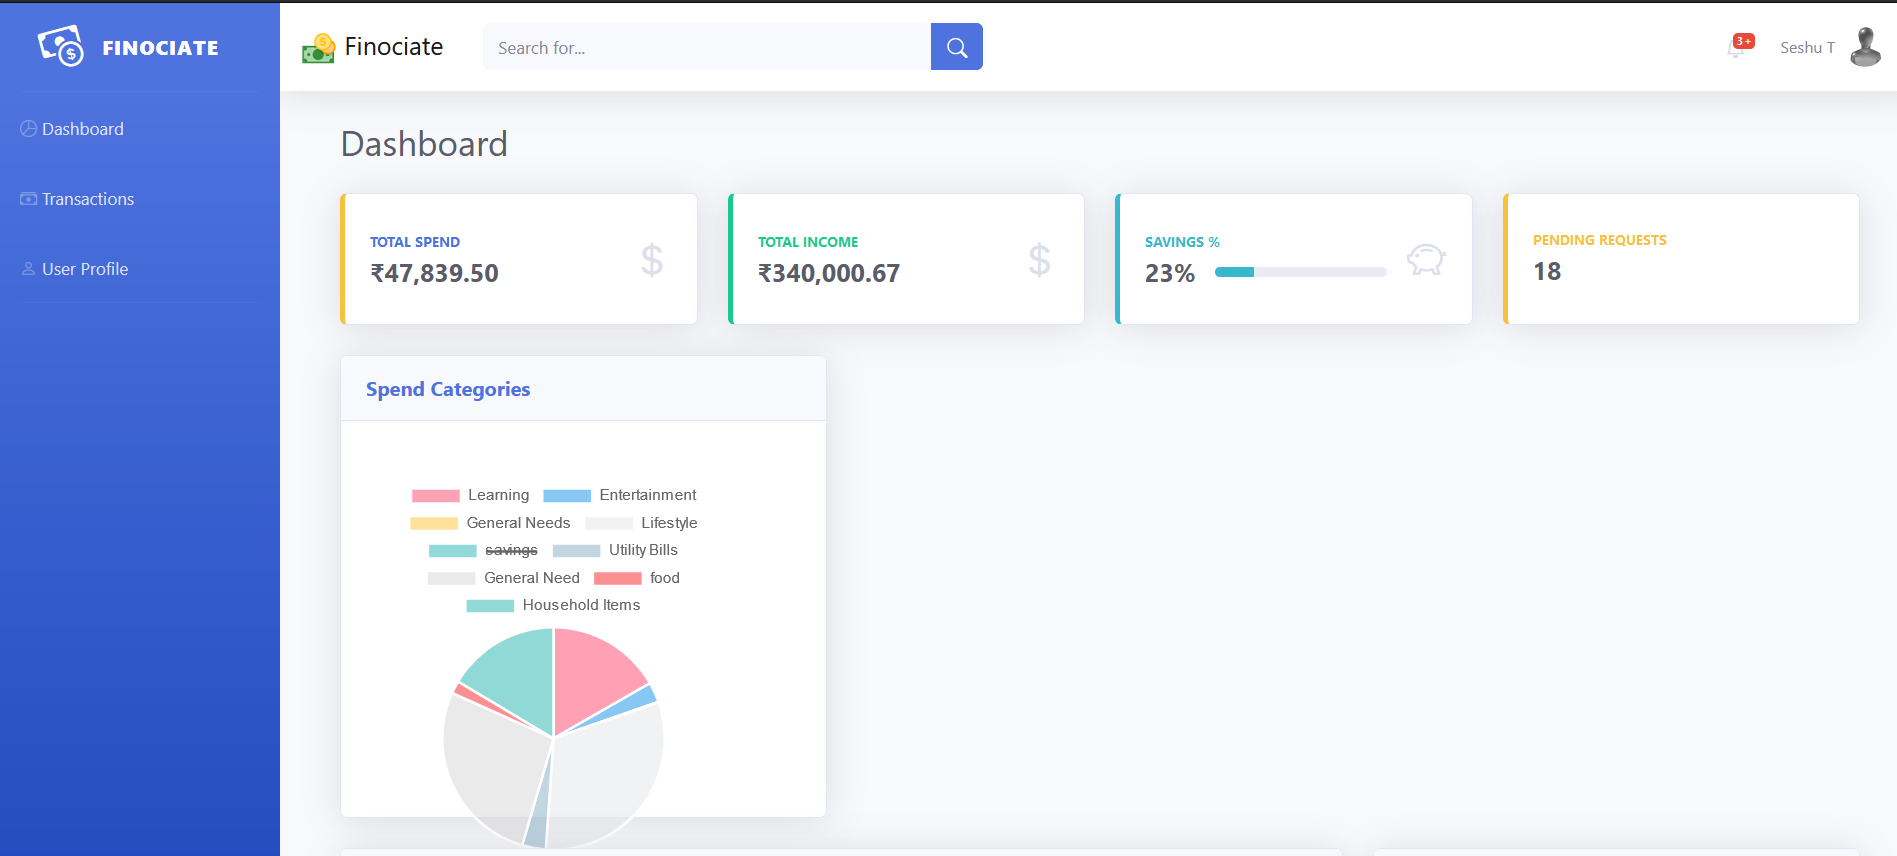
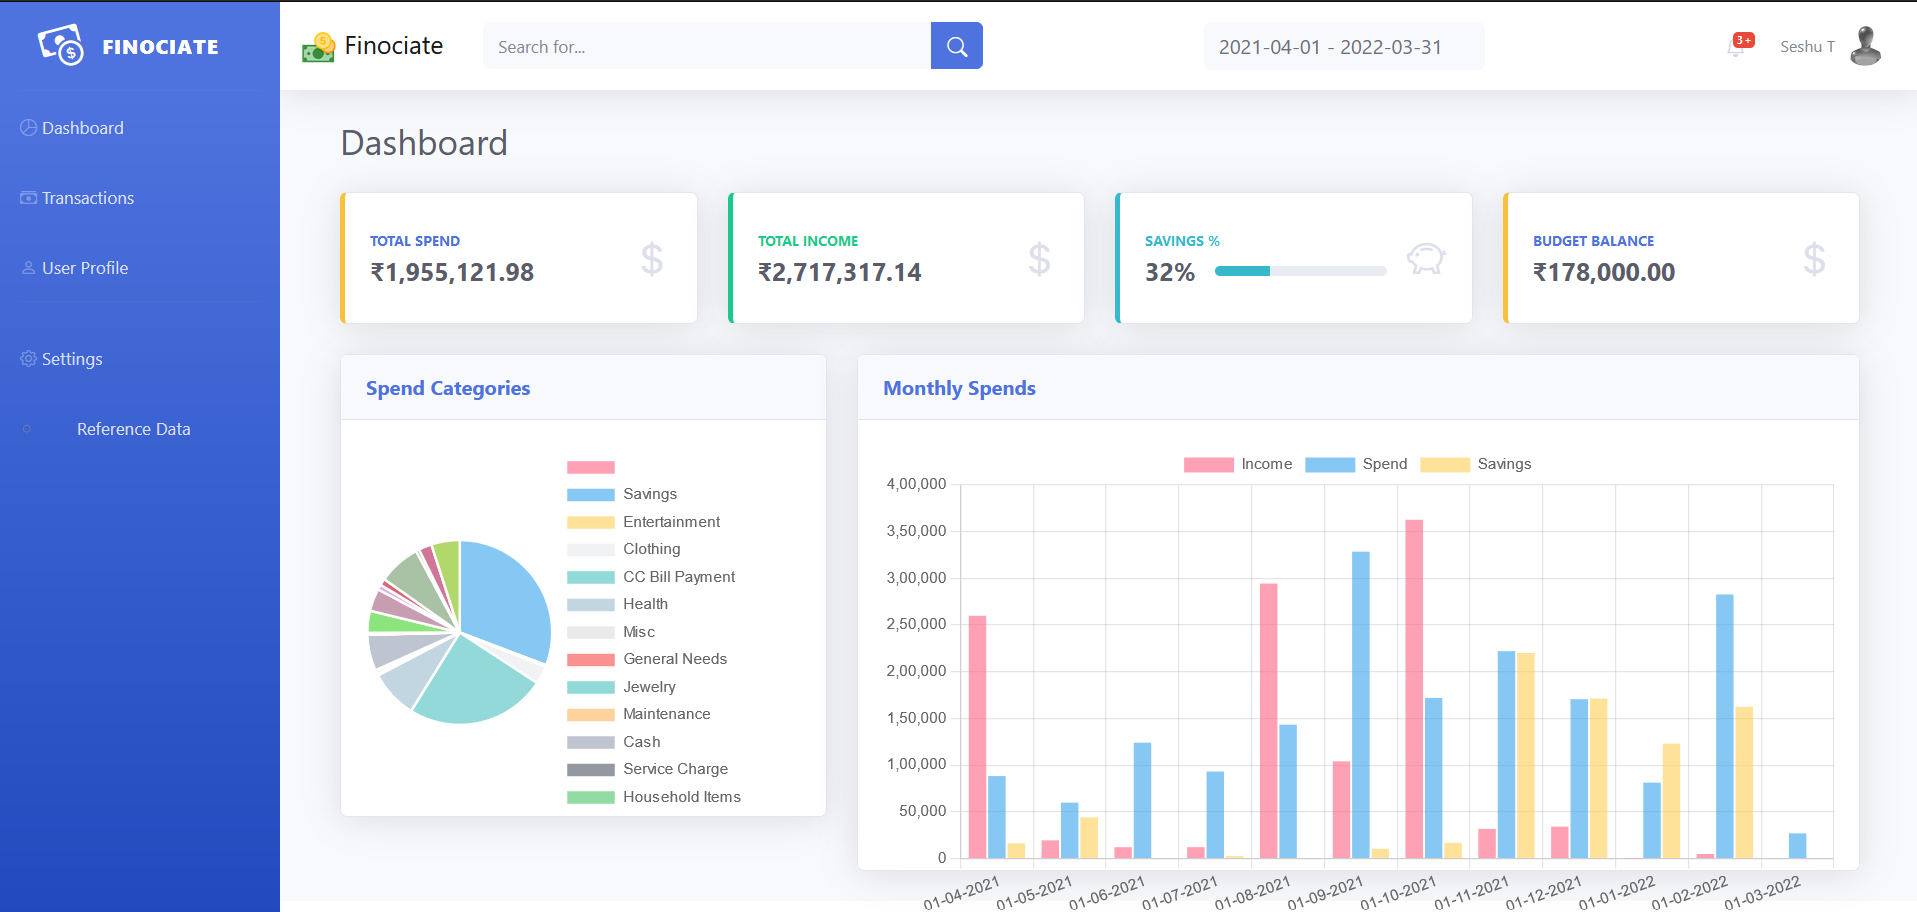
Monthly View Chart Added

diff --git a/finociate-ui/src/app/pages/monthly-view-chart/monthly-view-chart.component.ts b/finociate-ui/src/app/pages/monthly-view-chart/monthly-view-chart.component.ts
@@ -1,5 +1,10 @@
 import { Component, OnInit } from '@angular/core';
 import { ChartConfiguration } from 'chart.js';
+import { DateRangeService } from 'src/app/services/date-range.service';
+import { TransactionService } from 'src/app/services/transaction.service';
+import { CommonUtil } from 'src/app/shared/common-util';
+import { FilterParams } from 'src/app/shared/model/filter-params';
+import { TransactionSummaryList } from 'src/app/shared/model/transaction-summary-list';
 
 @Component({
   selector: 'app-monthly-view-chart',
@@ -11,20 +16,54 @@ export class MonthlyViewChartComponent implements OnInit {
   public barChartPlugins = [];
 
   public barChartData: ChartConfiguration<'bar'>['data'] = {
-    labels: [ '2006', '2007', '2008', '2009', '2010', '2011', '2012' ],
-    datasets: [
-      { data: [ 65, 59, 80, 81, 56, 55, 40 ], label: 'Series A' },
-      { data: [ 28, 48, 40, 19, 86, 27, 90 ], label: 'Series B' }
-    ]
+    datasets: []
   };
 
   public barChartOptions: ChartConfiguration<'bar'>['options'] = {
-    responsive: false,
+    responsive: true,
   };
 
-  constructor() { }
+  filterParams: FilterParams = {
+    fromDate: '',
+    toDate: ''
+  };
+
+  constructor(private transactionService: TransactionService, private dateRangeService: DateRangeService) { }
 
   ngOnInit(): void {
+    this.dateRangeService.dateRange().subscribe(value => {
+      this.filterParams.fromDate = CommonUtil.getDateString(value.startDate);
+      this.filterParams.toDate = CommonUtil.getDateString(value.endDate);
+      this.loadMonthlyData();
+    })
   }
 
+  loadMonthlyData() {
+    return this.transactionService.getMonthlyTransactionSummary(this.filterParams).subscribe((data: TransactionSummaryList) => {
+      if (data) {
+        console.log("Monthly Summary", data);
+        let labels: any[] = [];
+
+        let income: number[] = [];
+        let spend: number[] = [];
+        let savings: number[] = [];
+        data.list.forEach((summary) => {
+          labels.push(summary.date);
+          income.push(summary.totalIncome);
+          spend.push(summary.totalSpend);
+          savings.push(summary.totalSavings);
+        });
+        let datasets = [
+          { data: income, label: 'Income' },
+          { data: spend, label: 'Spend' },
+          { data: savings, label: 'Savings' }
+        ];
+        let barChartData: ChartConfiguration<'bar'>['data'] = {
+          labels: labels,
+          datasets: datasets
+        }
+        this.barChartData = barChartData;
+      }
+    });
+  }
 }

diff --git a/finociate-ui/src/app/services/transaction.service.ts b/finociate-ui/src/app/services/transaction.service.ts
@@ -1,14 +1,15 @@
 import { Injectable } from '@angular/core';
 import { HttpClient, HttpHeaders } from '@angular/common/http';
-import { Observable, throwError } from 'rxjs';
+import { EMPTY, Observable, throwError } from 'rxjs';
 import { retry, catchError } from 'rxjs/operators';
 import { Transaction } from '../shared/model/transaction';
 import { TransactionList } from '../shared/model/transaction-list';
 import { FilterParams } from '../shared/model/filter-params';
 import { TransactionSummary } from '../shared/model/transaction-summary';
-import { AmountsData } from '../shared/model/transaction-summary copy';
+import { AmountsData } from '../shared/model/amounts-data';
 import { Globals } from '../shared/global';
 import { ServiceHelper } from './helper';
+import { TransactionSummaryList } from '../shared/model/transaction-summary-list';
 
 @Injectable({
   providedIn: 'root'
@@ -38,12 +39,22 @@ export class TransactionService {
       .pipe(retry(1), catchError(ServiceHelper.handleError));
   }
 
-  // HttpClient API get() method => Fetch transactions summary
+  // HttpClient API get() method => Fetch category summary
   getSpendCategoryData(filterParams: FilterParams): Observable<AmountsData> {
     return this.http
       .get<AmountsData>(this.apiURL + '/summary/categories?' + this.getFilterString(filterParams))
       .pipe(retry(1), catchError(ServiceHelper.handleError));
   }
+
+    // HttpClient API get() method => Fetch monthly transactions summary
+    getMonthlyTransactionSummary(filterParams: FilterParams): Observable<TransactionSummaryList> {
+      if (filterParams.fromDate == '' || filterParams.toDate == '') {
+        return EMPTY;
+      }
+      return this.http
+        .get<TransactionSummaryList>(this.apiURL + '/summary/monthly?' + this.getFilterString(filterParams))
+        .pipe(retry(1), catchError(ServiceHelper.handleError));
+    }
 
   // HttpClient API get() method => Fetch transaction
   getTransaction(id: any): Observable<Transaction> {

diff --git a/finociate-ui/src/app/pages/dashboard/dashboard.component.html b/finociate-ui/src/app/pages/dashboard/dashboard.component.html
@@ -80,12 +80,12 @@
                 <div class="card-body">
                     <div class="row no-gutters align-items-center">
                         <div class="col mr-2">
-                            <div class="text-xs font-weight-bold text-warning text-uppercase mb-1">
-                                Pending Requests</div>
-                            <div class="h5 mb-0 font-weight-bold text-gray-800">18</div>
+                            <div class="text-xs font-weight-bold text-primary text-uppercase mb-1">
+                                Budget Balance</div>
+                            <div class="h5 mb-0 font-weight-bold text-gray-800">{{budget.balance | currency:currencyCode}}</div>
                         </div>
                         <div class="col-auto">
-                            <i class="fas fa-comments fa-2x text-gray-300"></i>
+                            <i class="bi bi-currency-dollar text-gray-300 size-2x"></i>
                         </div>
                     </div>
                 </div>

diff --git a/finociate-ui/src/app/services/date-range.service.ts b/finociate-ui/src/app/services/date-range.service.ts
@@ -1,15 +1,17 @@
 import { Injectable } from '@angular/core';
 import dayjs from 'dayjs';
-import { BehaviorSubject } from 'rxjs';
+import { BehaviorSubject, Subject } from 'rxjs';
 import { CommonUtil } from '../shared/common-util';
 
 @Injectable({
   providedIn: 'root'
 })
 export class DateRangeService {
-  private dateRangeSubject = new BehaviorSubject({startDate: CommonUtil.getFY(0)?.startOf('month'), endDate: dayjs()});
+  private dateRangeSubject: Subject<any>; 
 
-  constructor() { }
+  constructor() { 
+    this.dateRangeSubject = new BehaviorSubject({startDate: CommonUtil.getFY(0)?.startOf('month'), endDate: dayjs()}); 
+  }
 
   dateRange() {
     return this.dateRangeSubject.asObservable();

diff --git a/finociate-ui/src/app/pages/spend-category-chart/spend-category-chart.component.ts b/finociate-ui/src/app/pages/spend-category-chart/spend-category-chart.component.ts
@@ -4,7 +4,7 @@ import { DateRangeService } from 'src/app/services/date-range.service';
 import { TransactionService } from 'src/app/services/transaction.service';
 import { CommonUtil } from 'src/app/shared/common-util';
 import { FilterParams } from 'src/app/shared/model/filter-params';
-import { AmountsData } from 'src/app/shared/model/transaction-summary copy';
+import { AmountsData } from 'src/app/shared/model/amounts-data';
 
 @Component({
   selector: 'app-spend-category-chart',

diff --git a/finociate-ui/src/app/pages/monthly-view-chart/monthly-view-chart.component.html b/finociate-ui/src/app/pages/monthly-view-chart/monthly-view-chart.component.html
@@ -1,7 +1,5 @@
-<canvas baseChart
-        [data]="barChartData"
-        [options]="barChartOptions"
-        [plugins]="barChartPlugins"
-        [legend]="barChartLegend"
-        [type]="'bar'">
-</canvas>
+<div class="wrapper">
+        <canvas baseChart [data]="barChartData" [options]="barChartOptions" [plugins]="barChartPlugins"
+                [legend]="barChartLegend" [type]="'bar'">
+        </canvas>
+</div>

diff --git a/finociate-ui/src/app/pages/dashboard/dashboard.component.ts b/finociate-ui/src/app/pages/dashboard/dashboard.component.ts
@@ -12,10 +12,14 @@ import { TransactionSummary } from 'src/app/shared/model/transaction-summary';
 })
 export class DashboardComponent implements OnInit {
   summary: TransactionSummary = {
+    date: '',
     totalIncome: 0,
     totalSpend: 0,
     totalSavings: 0,
     savingsPercent: 0
+  };
+  budget = {
+    balance: 178000
   };
   filterParams: FilterParams = {
     fromDate: '',

diff --git a/finociate-ui/src/app/shared/model/transaction-summary-list.ts b/finociate-ui/src/app/shared/model/transaction-summary-list.ts
@@ -1,0 +1,5 @@
+import { TransactionSummary } from "./transaction-summary";
+
+export interface TransactionSummaryList {
+    list: TransactionSummary[];
+}

diff --git a/finociate-ui/src/app/shared/model/transaction-summary.ts b/finociate-ui/src/app/shared/model/transaction-summary.ts
@@ -1,4 +1,5 @@
 export interface TransactionSummary {
+    date: string;
     totalIncome: number,
     totalSpend: number,
     totalSavings: number,

diff --git a/backend/src/main/java/com/seshutechie/finociate/service/TransactionService.java b/backend/src/main/java/com/seshutechie/finociate/service/TransactionService.java
@@ -1,6 +1,7 @@
 package com.seshutechie.finociate.service;
 
 import com.seshutechie.finociate.common.AppConstants;
+import com.seshutechie.finociate.common.util.DateUtil;
 import com.seshutechie.finociate.exception.TransactionNotFoundException;
 import com.seshutechie.finociate.model.*;
 import com.seshutechie.finociate.repository.TransactionRepo;
@@ -9,6 +10,8 @@ import org.slf4j.LoggerFactory;
 import org.springframework.beans.factory.annotation.Autowired;
 import org.springframework.stereotype.Service;
 
+import java.time.LocalDate;
+import java.util.ArrayList;
 import java.util.List;
 import java.util.Map;
 import java.util.NoSuchElementException;
@@ -93,7 +96,10 @@ public class TransactionService {
                 transactionSummary.setTotalIncome(totalCredit);
                 transactionSummary.setTotalSpend(totalDebit - totalSavings);
                 transactionSummary.setTotalSavings(totalSavings);
-                transactionSummary.setSavingsPercent(totalSavings / totalCredit);
+                transactionSummary.setSavingsPercent(totalCredit > 0 ? totalSavings / totalCredit : 0);
+                if (filters != null) {
+                    transactionSummary.setDate(DateUtil.getStartOfMonth(filters.getFromDate()));
+                }
             }
         }
         return transactionSummary;
@@ -112,5 +118,27 @@ public class TransactionService {
             }
         }
         return amountsData;
+    }
+
+    public TransactionSummaryList getMonthlySummary(FilterParameters filterOptions) {
+        if (filterOptions == null || filterOptions.getFromDate() == null || filterOptions.getToDate() == null) {
+            throw new IllegalArgumentException("From and To dates are required");
+        }
+        List<TransactionSummary> list = new ArrayList<>();
+        TransactionSummaryList transactionSummaryList = new TransactionSummaryList(list);
+
+        FilterParameters filterParameters = new FilterParameters();
+        LocalDate startDate = DateUtil.getLocalDate(filterOptions.getFromDate());
+        LocalDate endDate = DateUtil.getLocalDate(filterOptions.getToDate());
+        LocalDate currentStartDate = startDate;
+        while (currentStartDate.isBefore(endDate)) {
+            currentStartDate = DateUtil.getStartOfMonth(currentStartDate);
+            filterParameters.setFromDate(DateUtil.getDate(currentStartDate));
+            filterParameters.setToDate(DateUtil.getDate(DateUtil.getEndOfMonth(currentStartDate)));
+            TransactionSummary transactionsSummary = getTransactionsSummary(filterParameters);
+            list.add(transactionsSummary);
+            currentStartDate = currentStartDate.plusMonths(1);
+        }
+        return transactionSummaryList;
     }
 }

diff --git a/backend/src/main/java/com/seshutechie/finociate/common/util/DateUtil.java b/backend/src/main/java/com/seshutechie/finociate/common/util/DateUtil.java
@@ -1,0 +1,67 @@
+package com.seshutechie.finociate.common.util;
+
+import java.text.SimpleDateFormat;
+import java.time.LocalDate;
+import java.time.ZoneId;
+import java.util.Date;
+import java.util.TimeZone;
+
+public class DateUtil {
+    public static final String ZONE_UTC = "UTC";
+    public static final ZoneId ZONE_ID_UTC = ZoneId.of(ZONE_UTC);
+
+    public static final Date getStartOfMonth(Date date) {
+        Date startOfMonth = null;
+        if (date != null) {
+            LocalDate localDate = getLocalDate(date);
+            startOfMonth = getDate(getStartOfMonth(localDate));
+        }
+        return startOfMonth;
+    }
+
+    public static final Date getEndOfMonth(Date date) {
+        Date endOfMonth = null;
+        if (date != null) {
+            LocalDate localDate = getLocalDate(date);
+            endOfMonth = getDate(getEndOfMonth(localDate));
+        }
+        return endOfMonth;
+    }
+
+    public static final Date[] getStartAndEndOfMonth(Date date) {
+        Date[] dates = null;
+        if (date != null) {
+            dates = new Date[2];
+            LocalDate localDate = getLocalDate(date);
+            dates[0] = getDate(getStartOfMonth(localDate));
+            dates[1] = getDate(getEndOfMonth(localDate));
+        }
+        return dates;
+    }
+
+    public static LocalDate getStartOfMonth(LocalDate localDate) {
+        return localDate != null ? localDate.withDayOfMonth(1) : null;
+    }
+
+    public static LocalDate getEndOfMonth(LocalDate localDate) {
+        return localDate != null ? localDate.plusMonths(1).withDayOfMonth(1).minusDays(1) : null;
+    }
+
+    public static LocalDate getLocalDate(Date date) {
+        return date != null ? date.toInstant()
+                .atZone(ZONE_ID_UTC)
+                .toLocalDate() : null;
+    }
+
+    public static Date getDate(LocalDate localDate) {
+        return localDate != null ? Date.from(localDate.atStartOfDay()
+                .atZone(ZONE_ID_UTC)
+                .toInstant()) : null;
+    }
+
+    public static SimpleDateFormat getDateFormat(String format) {
+        SimpleDateFormat dateFormat = new SimpleDateFormat(format);
+        dateFormat.setTimeZone(TimeZone.getTimeZone(ZONE_UTC));
+        return dateFormat;
+    }
+}
